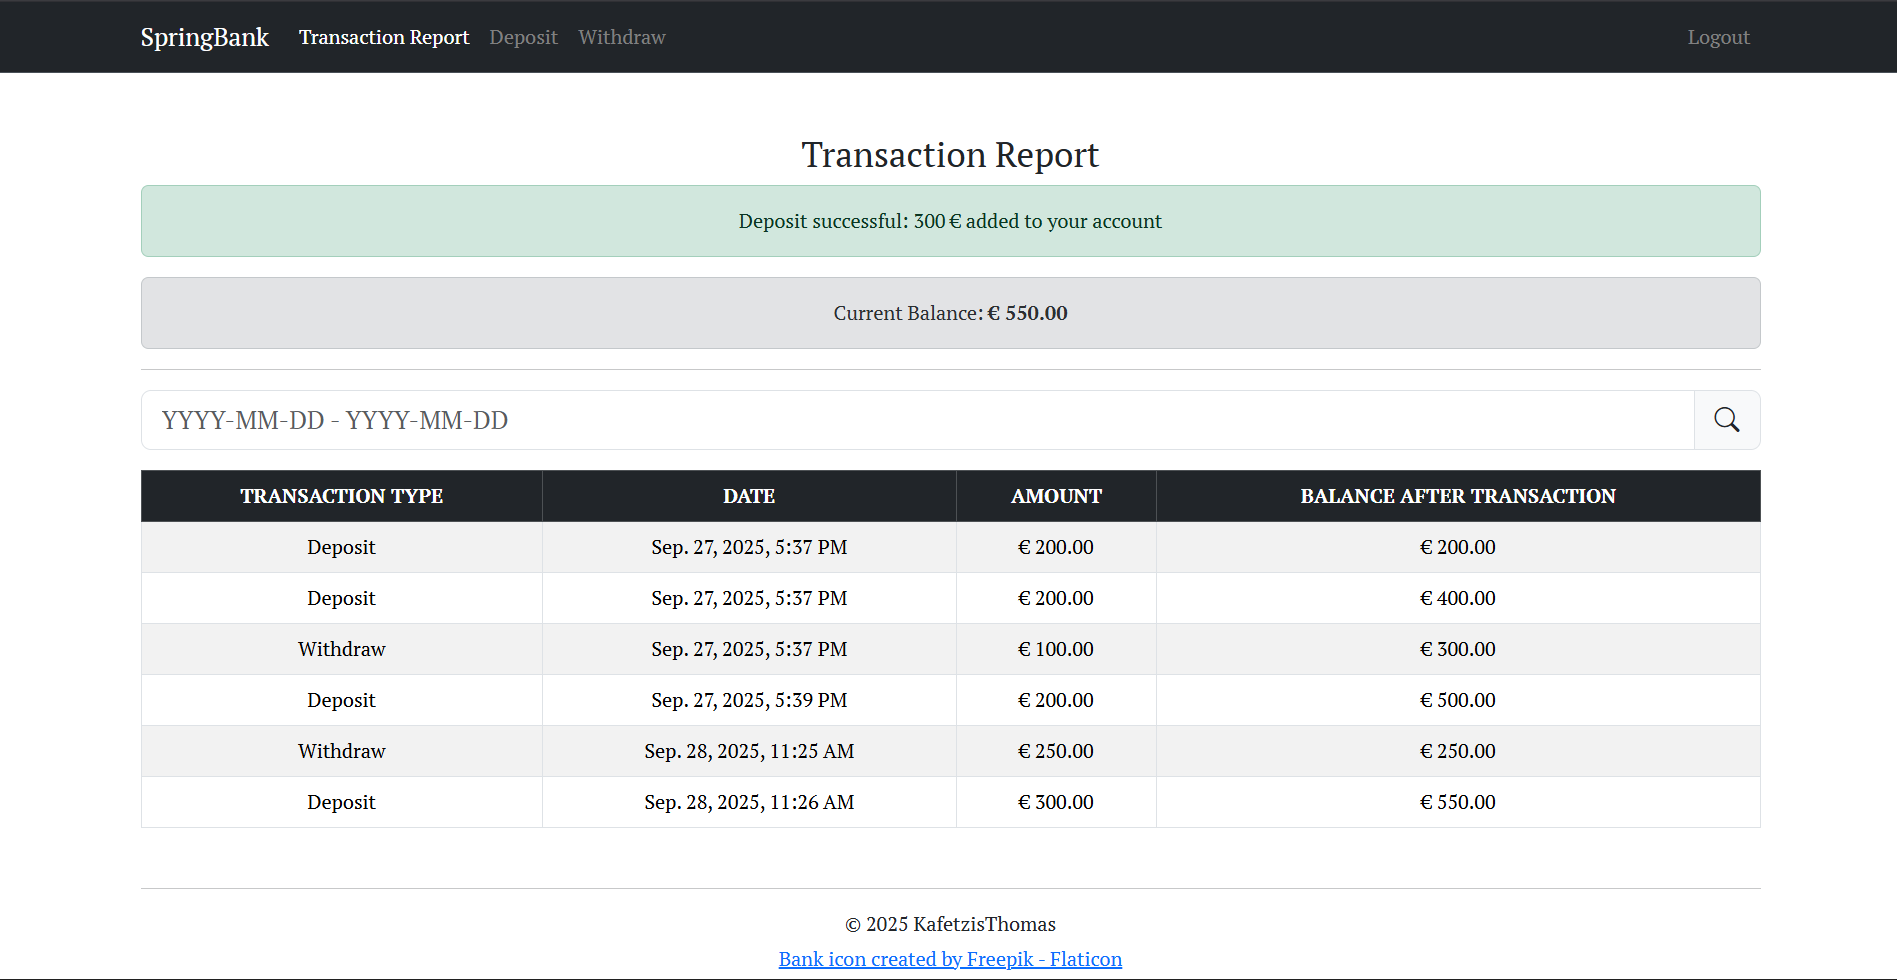
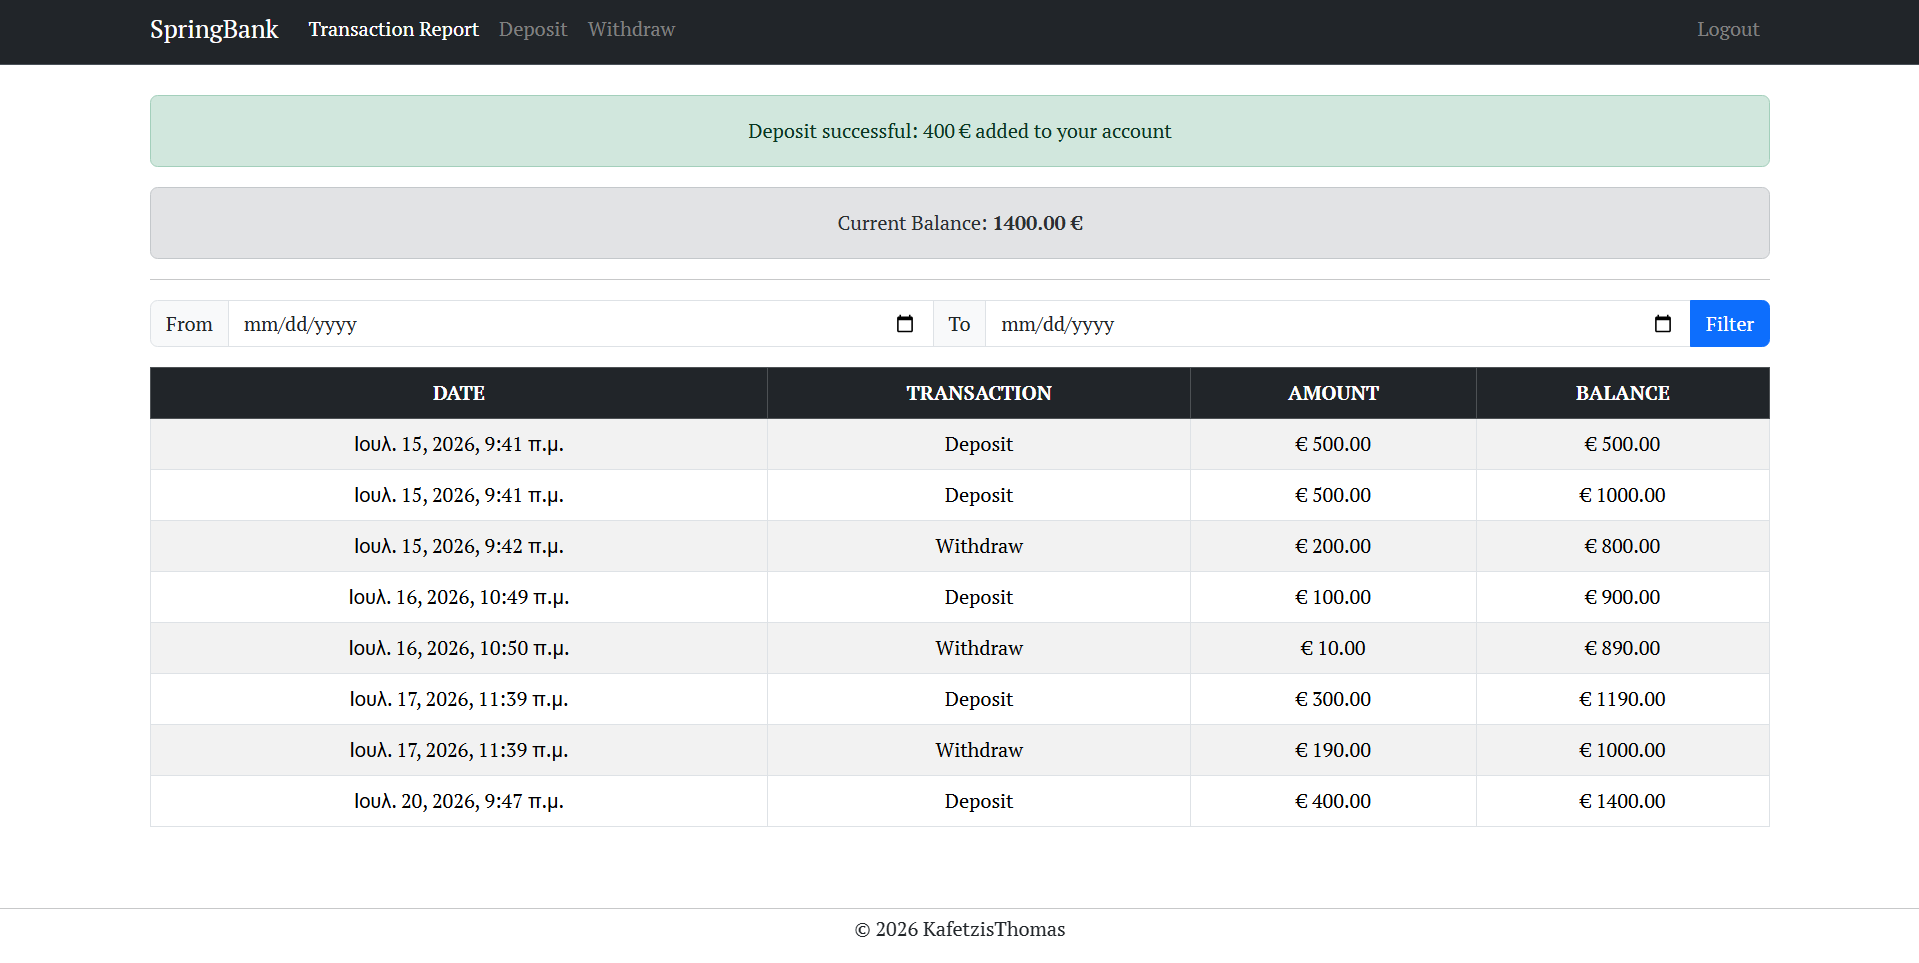
Update demo images [README]

diff --git a/README.md b/README.md
@@ -46,8 +46,12 @@ Access web application at http://127.0.0.1:8080 or http://localhost:8080.
 
 ## Demo Images
 
+![Transactions](assets/transactions.png)
+
+![Date Range Calendar](assets/date_range_cal.png)
+
+![Date Range Output](assets/date_range_output.png)
+
 ![Deposit](assets/deposit.png)
 
 ![Withdraw](assets/withdraw.png)
-
-![Date Range](assets/date_range.png)